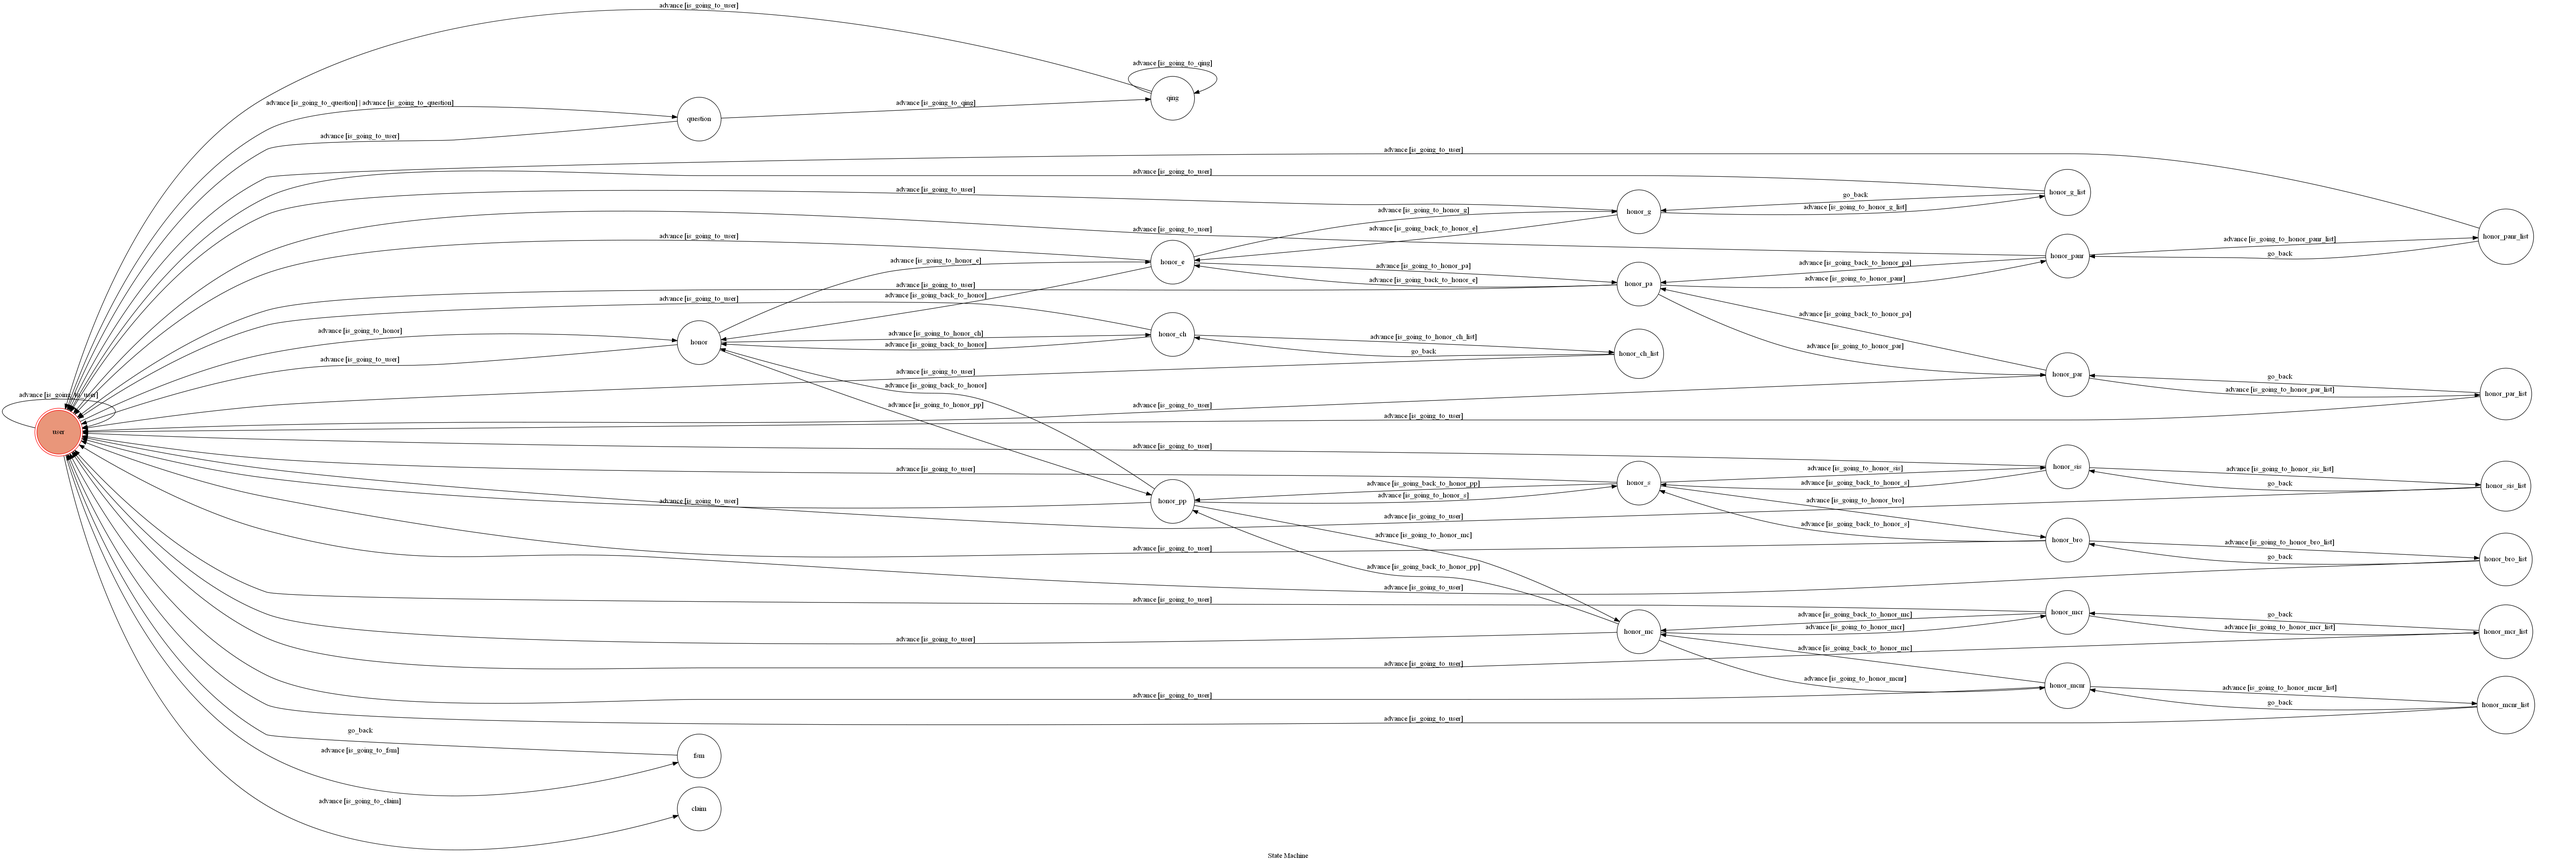
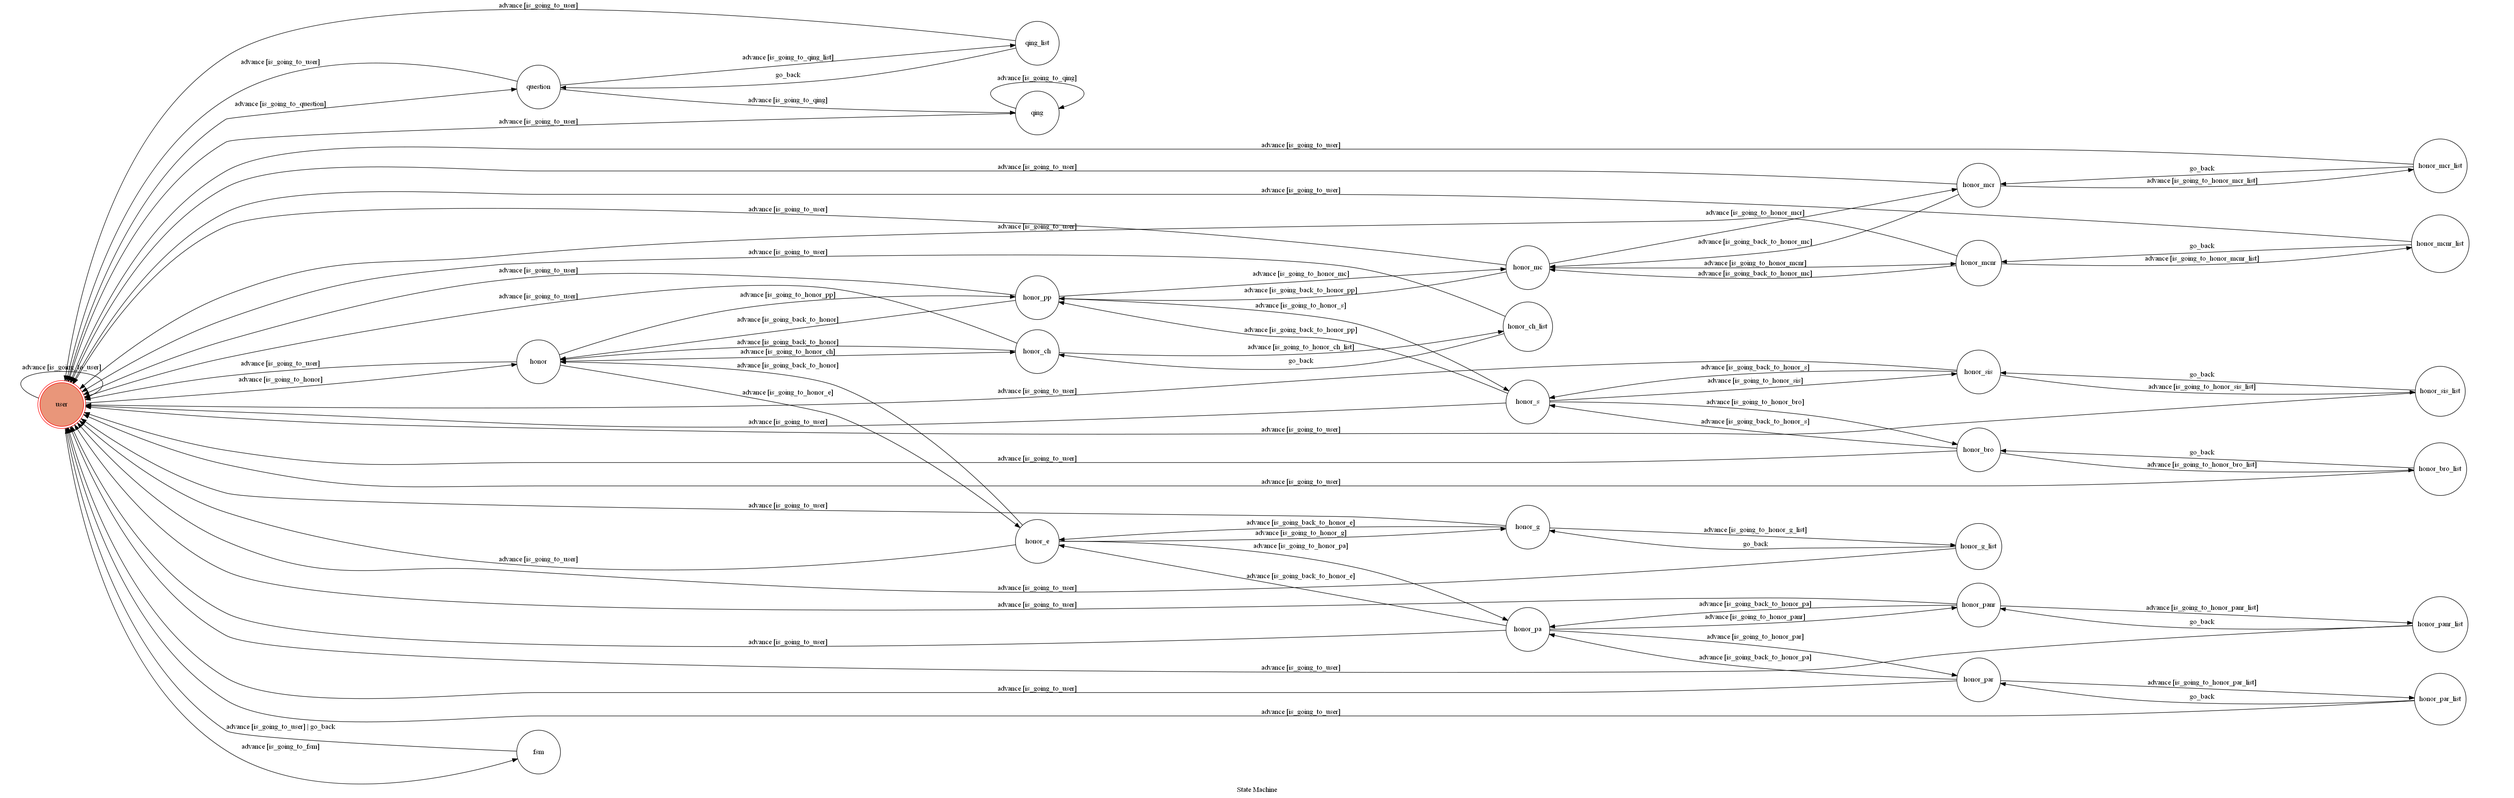
update fsm

diff --git a/app.py b/app.py
@@ -98,7 +98,6 @@ machine = TocMachine(
         {"trigger": "advance","source": "honor_ch","dest": "honor_ch_list","conditions": "is_going_to_honor_ch_list"},
         {"trigger": "advance","source": "honor_ch","dest": "honor","conditions": "is_going_back_to_honor"},
         
-        {"trigger": "advance","source": "user","dest": "claim","conditions": "is_going_to_claim"},
         {"trigger": "advance", "source": ["user",
             "question",
             "qing",

diff --git a/fsm.py b/fsm.py
@@ -26,7 +26,7 @@ class TocMachine(GraphMachine):
     
     def on_enter_fsm(self,event):
         reply_token = event.reply_token
-        url = "https://i.imgur.com/BfeBkRx.jpg"
+        url = "https://i.imgur.com/TOmseXT.jpg"
         send_image_message(reply_token, url)
         self.go_back()
     
